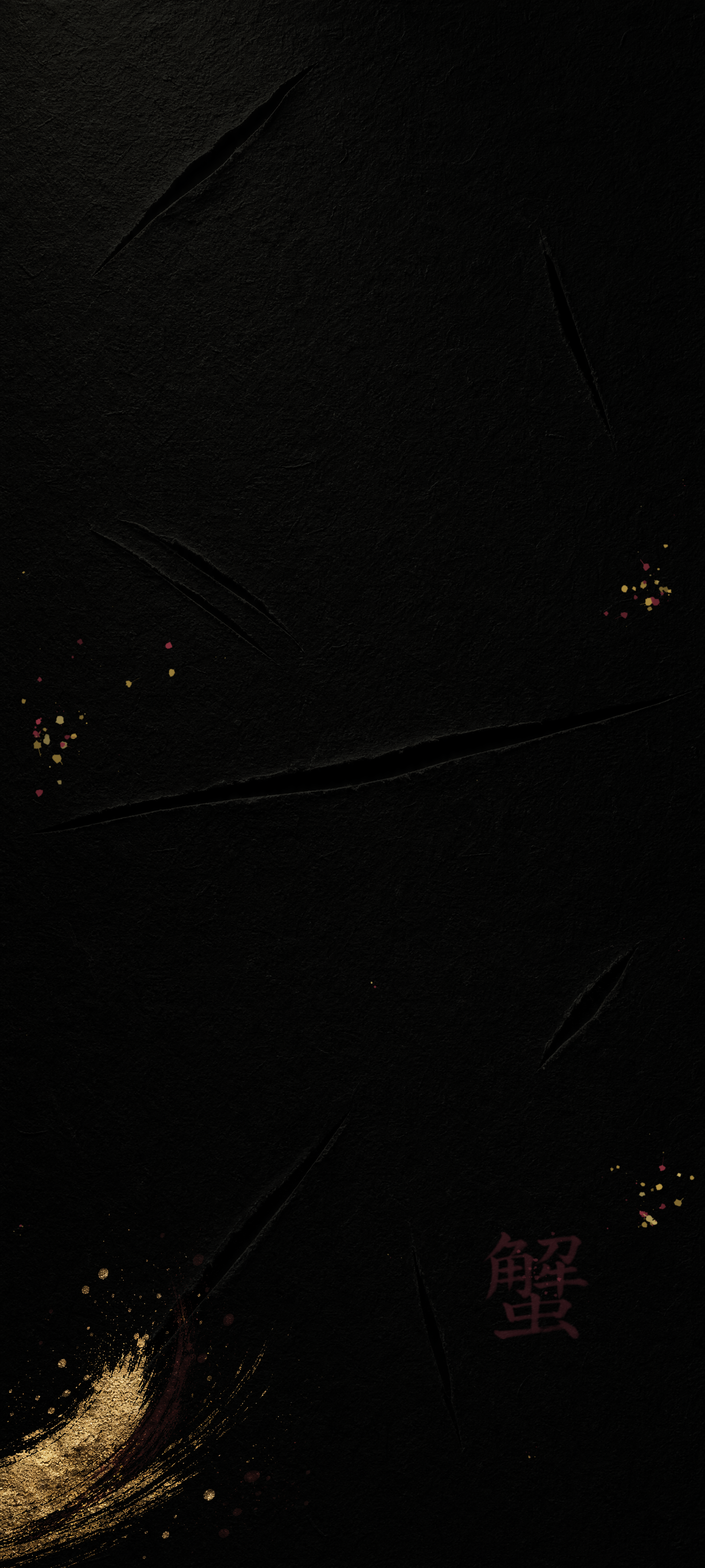
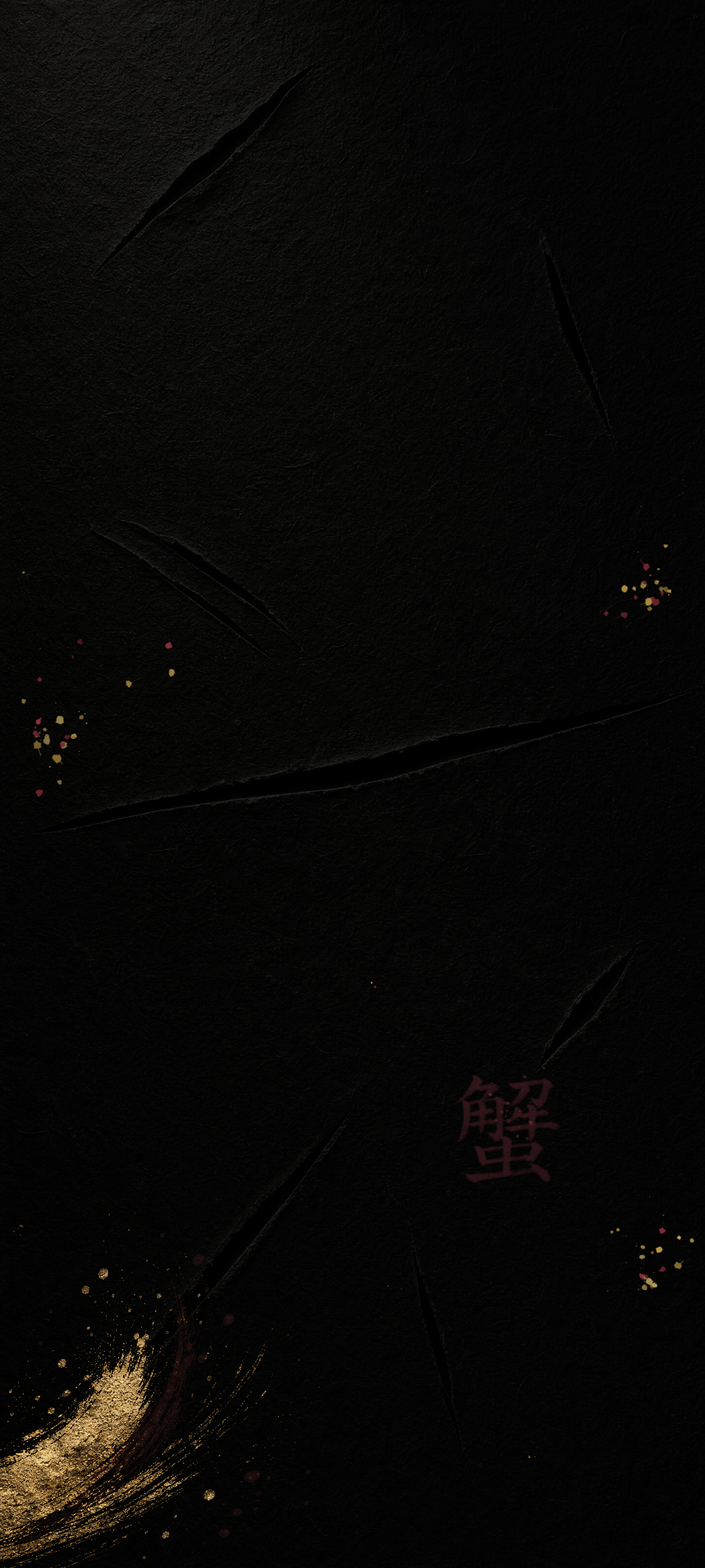
style: use original lossless wallpapers for mobile and desktop relief artwork

Changed region(s): [[0.6875, 0.7812, 0.8125, 0.875], [0.6562, 0.6875, 0.7812, 0.75], [0.9062, 0.75, 0.9688, 0.8438]]

diff --git a/src/styles.css b/src/styles.css
@@ -3964,10 +3964,10 @@ html[data-theme='light'] .booking-page .booking-contact-form :is(.field-label in
 /* Original lossless mobile artwork, shared by the page and mobile navigation. */
 @media (max-width: 767px) {
   html[data-theme="light"] {
-    --kani-wallpaper-image: url('/kani-fondo-claro-mobile-relieve.webp');
+    --kani-wallpaper-image: url('/kani-fondo-claro-mobile-relieve-lossless.webp');
   }
   html[data-theme="dark"] {
-    --kani-wallpaper-image: url('/kani-fondo-oscuro-mobile-relieve.webp');
+    --kani-wallpaper-image: url('/kani-fondo-oscuro-mobile-master.webp');
   }
 }
 
